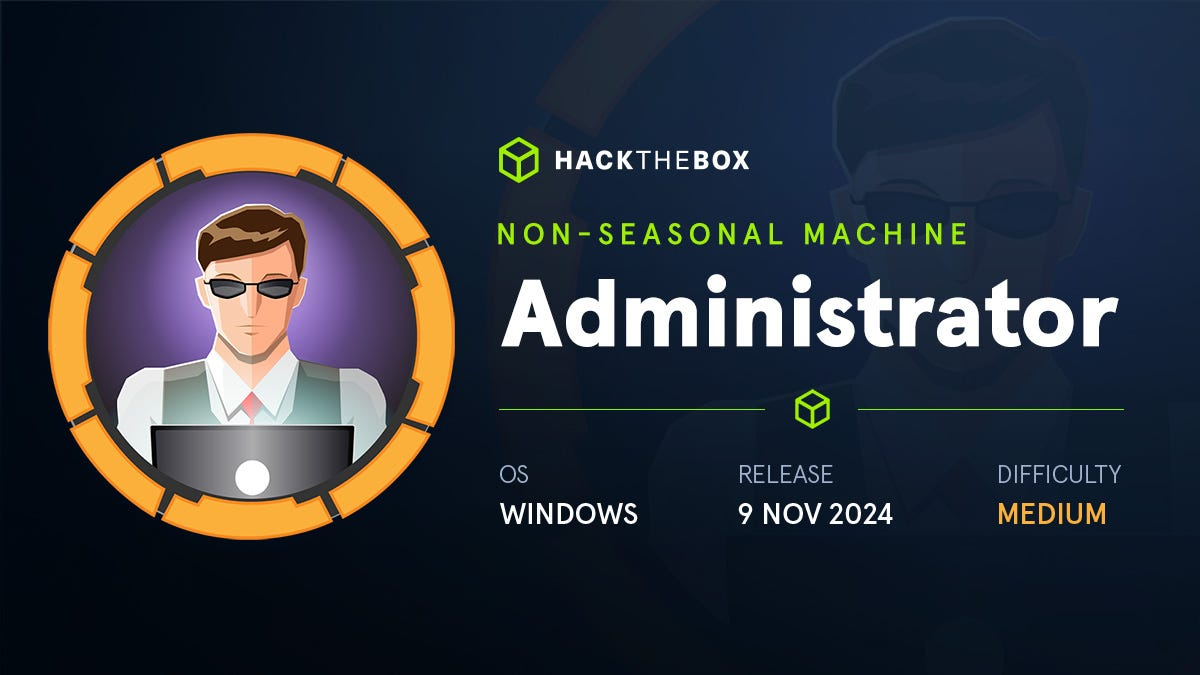
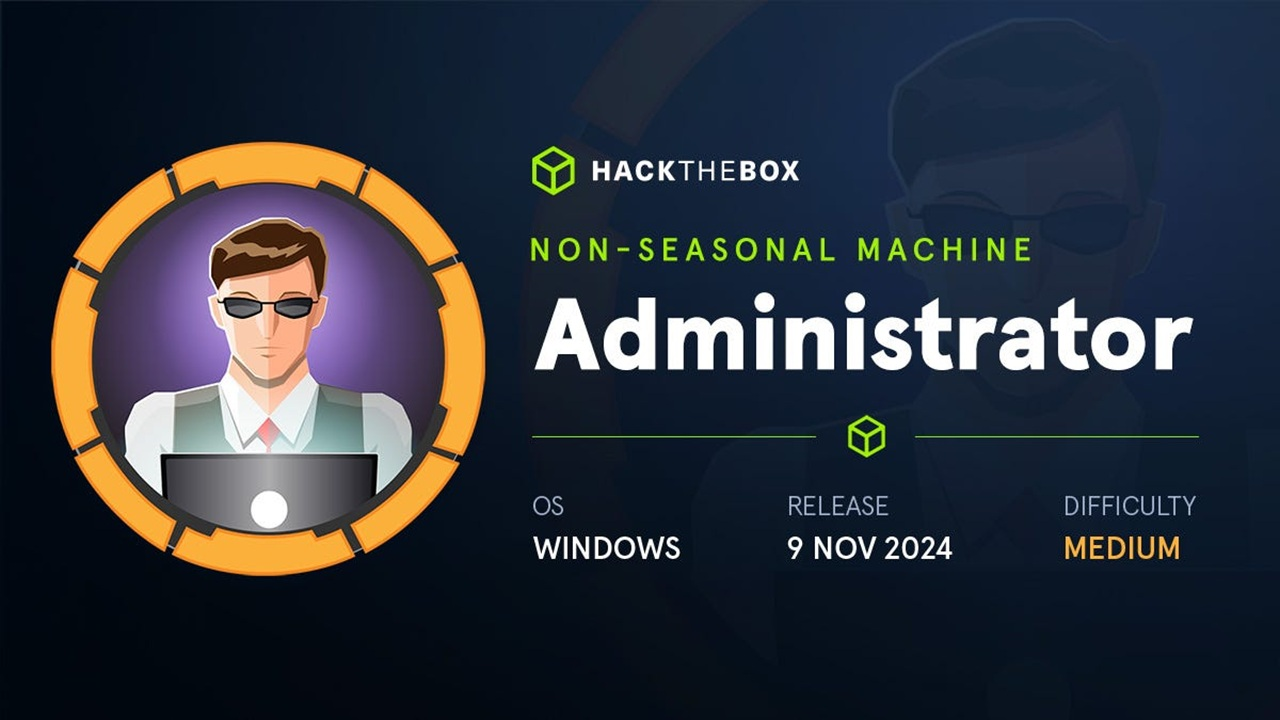
added table of contents

diff --git a/_posts/htb/easy/2025-06-10-Blue.md b/_posts/htb/easy/2025-06-10-Blue.md
@@ -2,6 +2,7 @@
 title: "Blue | HackTheBox Walkthrough"
 date: 2025-06-10
 excerpt: Walkthrough of HTB’s Blue, covering SMB enumeration, null sessions, and EternalBlue (MS17-010) exploitation.
+toc: true
 categories:
   - htb 
 tags:

diff --git a/_posts/htb/medium/2025-06-11-Administrator.md b/_posts/htb/medium/2025-06-11-Administrator.md
@@ -19,7 +19,7 @@ tags:
   - bloodyad
   - netexec            
 header:
-  teaser: /assets/images/htb/administrator/admin.png
+  teaser: /assets/images/htb/administrator/admin.jpg
 toc: true
 ---
 
